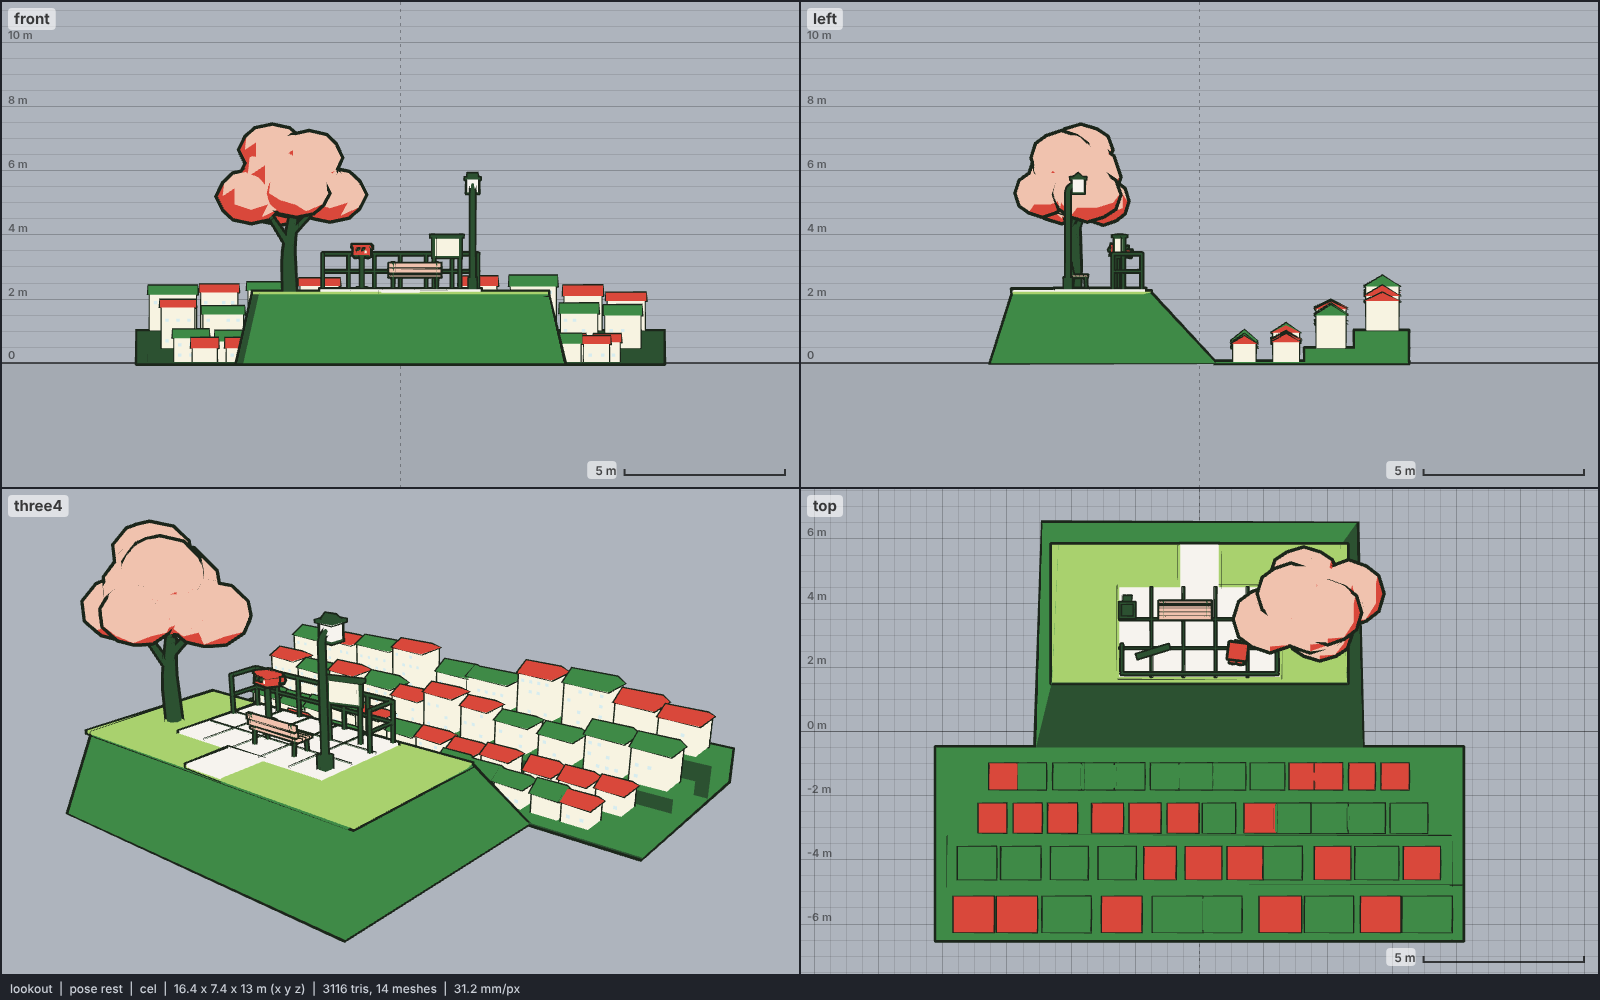
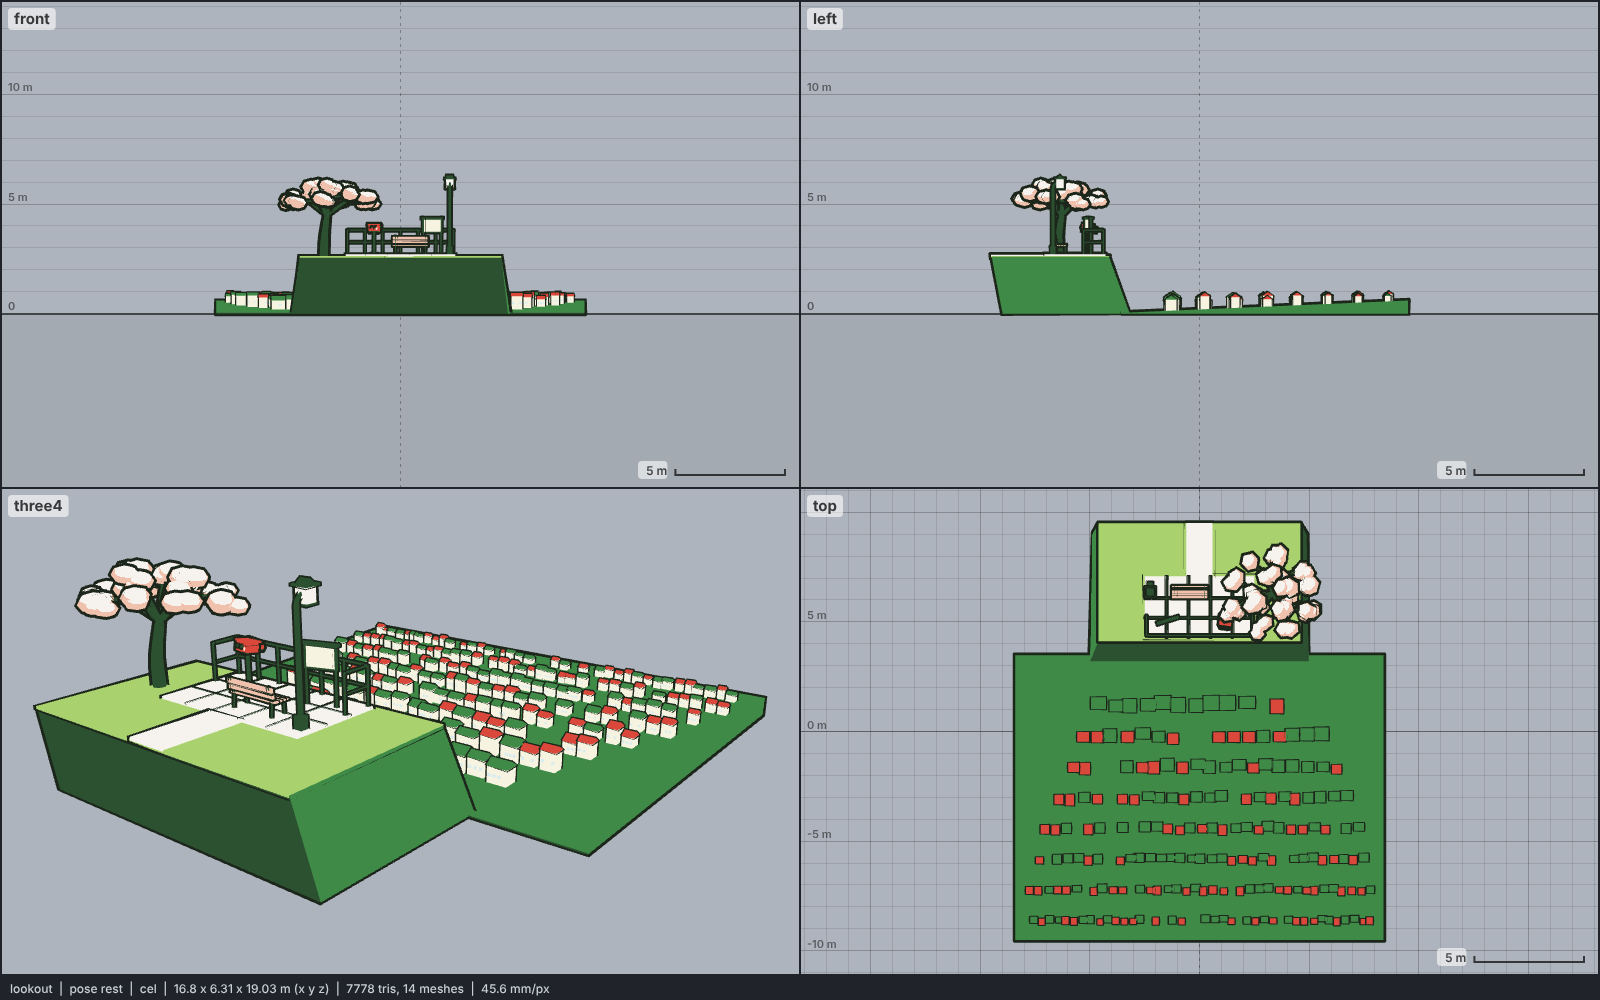
models: lookout, drop the town below a cliff, cluster the cherry
The town is now a forced-perspective spread of eight shrinking rows on the
valley floor past a 70 deg cliff, every roof >= 1.5 m under the deck. The
hilltop is lower and ends at a shaded cut just behind the path. The cherry
is built from limbs and small blossom clusters. 7.8k triangles, 14 meshes.

Claude-Session: https://claude.ai/code/session_01RarBCdt4E1fNHHaUKaW5GL

diff --git a/models/lookout.js b/models/lookout.js
@@ -1,39 +1,43 @@
 // lookout.js - a hilltop observation point over a town, the anime ending-scene viewpoint, static.
 // Contract: harness/lab/README.md. Meters, +Y up, the visitor's side faces +Z (the bench back and the path), the
-// view and the drop lie toward -Z, its left is +X (the lamp), stands on y = 0 (the town floor), centred on x = 0, z = 0.
+// view and the drop lie toward -Z, its left is +X (the lamp), stands on y = 0 (the valley floor), centred on x = 0, z = 0.
 //
-// Construction (boxes, prisms, swept tubes and faceted blobs, all triangle soups merged per material; flat-shaded
-// except tubes, which carry radial normals so a 6-sided tube reads round):
-//   HILL     one closed frustum, its top the hilltop at P = 2.2 m, its flanks the grass slope down to the town floor;
-//            a grass verge slab on top and a paved platform slab on that (8 cm, so its edge reads as a kerb).
-//   RAILING  tube posts every ~0.9 m along the drop edge, a top rail and a mid rail, short returns at both ends.
+// Construction (boxes, prisms, swept tubes and low-poly blobs, all triangle soups merged per material; flat-shaded
+// except tubes and blobs, which carry radial normals):
+//   HILL     one closed hexahedron, its top the hilltop at P = 2.6 m: a steep cliff (70 deg) down to the valley floor
+//            toward the view, so there is a visible drop between the railing and the town; the visitor's side is a cut
+//            leaning in 0.5 m (a diorama base, in shade). A grass verge slab on top, a paved platform on that (11 cm,
+//            so its edge reads as a kerb) and a path to the back edge.
+//   RAILING  tube posts every ~0.8 m along the drop edge, a top rail and a mid rail, short returns at both ends.
 //   FIXTURES a coin binocular viewer (tube post, a squat body box with a hood, two eyepieces toward the visitor and
 //            two fat objective barrels toward the view) tilted down 8 deg; a park bench facing the view (four seat
 //            slats, two back slats on cast side frames); a lamp post (tube with a crook, lantern box, cap); a small
 //            blank information board on two posts, its panel turned toward the visitor.
-//   TREE     a cherry: tapered tube trunk with three limbs, a canopy of seven faceted blobs (icosahedron detail 1).
-//   TOWN     a flat backdrop strip on the town floor beyond the slope's foot: three staggered rows of wall boxes with
-//            gable prisms, a few taller blocks, small window quads on the faces toward the hill. Sizes come from a
-//            fixed integer hash, never Math.random.
+//   TREE     a cherry after riverbank-path: a bent bole forking at 1.9 m, six limbs that split in two, four crown limbs,
+//            all dark tubes; a cluster of 1-3 small flattened blobs at every tip and elbow, so limbs show in the gaps.
+//   TOWN     a forced-perspective spread on the valley floor past the cliff foot: eight rows of wall boxes with gable
+//            prisms, each row further out smaller (scale 0.50 -> 0.25) and wider, on a floor that rises gently (0 ->
+//            0.6 m) like the far side of a valley; every roof stays >= 1.5 m under the deck. Window quads face the hill.
+//            Sizes come from a fixed integer hash, never Math.random.
 //   Every closed part is wound away from a point inside it, never by hand.
-// Proportions (real size, base unit the railing height R = 1.1 m): hilltop 2.0 R over the town floor; platform 5.0 x 2.8
-// (4.5 R x 2.5 R); bench 1.6 wide, seat 0.42, back 0.8; viewer eyepieces at 1.2; lamp 3.6 tall; board 0.9 x 0.6 at
-// 1.0-1.6; cherry crown top 5.2 m over the hilltop (the model's top). Town rows 0.5-1.4 m tall: a forced-perspective
-// strip, not real-size houses.
+// Proportions (real size, base unit the railing height R = 1.1 m): deck 2.5 R over the cliff foot; platform 5.0 x 2.8
+// (4.5 R x 2.5 R); bench 1.6 wide, seat 0.42, back 0.8; viewer eyepieces at 1.2; lamp 3.6 tall (its cap is the
+// model's top); board 0.9 x 0.6 at 1.0-1.6; cherry crown ~3.6 m over the verge. Town houses 0.2-0.7 m tall.
 // Options: build(THREE, kit, colors, { height, dusk }).
-//   height  scales everything uniformly so the crown top is `height` (default 7.4 m).
+//   height  scales everything uniformly so the lamp cap is `height` (default 6.31 m).
 //   dusk    the lamp lantern and the town windows glow practical (threshold -0.25, a thin shade rim only); the town
 //           walls drop to hair so the lights pop.
-// Colours (meadow): grass verge line #a9d16e / iris #3f8a47; hill slope and town floor iris / hair #2c5131;
-// paving sclera #f6f3ee / sky #d7ecef; painted metal (railing, posts, frames) hair / hair; viewer accent #d9483b /
-// hair; bench slats skin #f0c2ae / accent; board panel moon #f7f3e1 / sclera; lantern sclera / sky (dusk practical
-// #f2c94c / practical); trunk hair / hair; blossom skin / accent; town walls moon / sky (dusk hair / hair), roofs
-// iris / hair and accent / hair, windows sky (dusk practical). Pale parts use threshold 0.1 so faces square to the
-// camera stay lit (front dot 0.30).
+// Colours (meadow): grass verge line #a9d16e / iris #3f8a47; hill and valley floor iris / hair #2c5131 (threshold
+// 0.45, so the visitor-side cut and the cliff fall to hair); paving sclera #f6f3ee / sky #d7ecef; painted metal
+// (railing, posts, frames) hair / hair; viewer accent #d9483b / hair; bench slats skin #f0c2ae / accent; board panel
+// moon #f7f3e1 / sclera; lantern sclera / sky (dusk practical #f2c94c / practical); trunk and limbs hair flat; blossom
+// sclera / skin at threshold 0.55 (white tops, sakura-pink sides, as riverbank-path); town walls moon / sky (dusk
+// hair / hair), roofs iris / hair and accent / hair, windows sky (dusk practical). Pale parts use threshold 0.1 so
+// faces square to the camera stay lit (front dot 0.30).
 
 export const meta = {
   name: "lookout",
-  height: 7.4,
+  height: 6.31,
   script: "meadow",
   colors: {
     grass: "#a9d16e", grassShade: "#3f8a47",
@@ -46,7 +50,7 @@ export const meta = {
     lamp: "#f6f3ee", lampShade: "#d7ecef",
     glow: "#f2c94c",
     trunk: "#2c5131",
-    blossom: "#f0c2ae", blossomShade: "#d9483b",
+    blossom: "#f6f3ee", blossomShade: "#f0c2ae",
     wall: "#f7f3e1", wallShade: "#d7ecef",
     roofA: "#3f8a47", roofB: "#d9483b", roofShade: "#2c5131",
     window: "#d7ecef",
@@ -155,12 +159,19 @@ export function build(THREE, kit, colors = meta.colors, opts = {}) {
       for (let j = 1; j < sides - 1; j++) tri(key, R.ring[0].q, R.ring[j].q, R.ring[j + 1].q, ref, cn, cn, cn);
     }
   }
-  // faceted blob: icosahedron detail 1, scaled per axis
-  const ico = new THREE.IcosahedronGeometry(1, 1).getAttribute("position");
-  function blob(key, C, sx, sy, sz) {
-    for (let i = 0; i < ico.count; i += 3) {
-      const q = [0, 1, 2].map((k) => [C[0] + ico.getX(i + k) * sx, C[1] + ico.getY(i + k) * sy, C[2] + ico.getZ(i + k) * sz]);
-      tri(key, q[0], q[1], q[2], C);
+  // blossom blob: a low sphere (6 x 4), flattened, scaled per axis and turned about y; smooth radial normals
+  const sph = new THREE.SphereGeometry(1, 6, 4);
+  const sP = sph.getAttribute("position"), sI = sph.getIndex();
+  function blob(key, C, sx, sy, sz, yaw = 0) {
+    const cy = Math.cos(yaw), sn = Math.sin(yaw);
+    const at = (i) => {
+      const x = sP.getX(i) * sx, z = sP.getZ(i) * sz;
+      return [C[0] + x * cy + z * sn, C[1] + sP.getY(i) * sy, C[2] - x * sn + z * cy];
+    };
+    const nAt = (q) => nrm([(q[0] - C[0]) / (sx * sx), (q[1] - C[1]) / (sy * sy), (q[2] - C[2]) / (sz * sz)]);
+    for (let i = 0; i < sI.count; i += 3) {
+      const q = [0, 1, 2].map((k) => at(sI.getX(i + k)));
+      tri(key, q[0], q[1], q[2], C, nAt(q[0]), nAt(q[1]), nAt(q[2]));
     }
   }
   const place = (x, y, z, yaw, fn, pitch = 0) => {
@@ -172,9 +183,11 @@ export function build(THREE, kit, colors = meta.colors, opts = {}) {
   const hash = (i) => { let h = (i * 2654435761) >>> 0; h ^= h >>> 15; h = Math.imul(h, 2246822519) >>> 0; h ^= h >>> 13; return (h >>> 0) / 4294967296; };
 
   // ---------- hill, verge, platform ----------
-  const P = 2.2, EDGE = -1.0; // hilltop height, z of the drop edge
-  const BZ = 2.9; // back edge of the hilltop
-  hex("hill", [[-5.1, 0, -3.4], [5.1, 0, -3.4], [4.9, 0, BZ + 0.7], [-4.9, 0, BZ + 0.7], [-4.6, P, EDGE - 0.35], [4.6, P, EDGE - 0.35], [4.4, P, BZ], [-4.4, P, BZ]]);
+  const P = 2.6, EDGE = -1.0; // hilltop height, z of the drop edge
+  const BZ = 4.0, CZ = -2.3, BACK = BZ - 0.5; // the visitor-side cut leans in a little (undercut) // back edge of the top, cliff foot, back foot
+  // a steep cliff toward the view; the visitor's side is a cut leaning in 0.5 m (a diorama base), so the model ends
+  // just behind the path
+  hex("hill", [[-5.0, 0, CZ], [5.0, 0, CZ], [4.9, 0, BACK], [-4.9, 0, BACK], [-4.6, P, EDGE - 0.35], [4.6, P, EDGE - 0.35], [4.6, P, BZ], [-4.6, P, BZ]]);
   box("grass", -4.6, 4.6, P - 0.05, P + 0.03, EDGE - 0.37, BZ + 0.02);
   const PX = 2.5, PZ0 = EDGE - 0.2, PZ1 = 1.6, PT = P + 0.11;
   box("paving", -PX, PX, P, PT, PZ0, PZ1);
@@ -246,43 +259,64 @@ export function build(THREE, kit, colors = meta.colors, opts = {}) {
   });
 
   // ---------- cherry tree on the -X verge ----------
-  place(-3.45, P, 1.0, Math.PI, () => {
-    tube("trunk", [[0, -0.05, 0], [0.05, 1.3, 0], [-0.1, 2.3, 0.05]], [0.2, 0.11], [0, 0, 1], { bend: 0.4, sides: 7 });
-    tube("trunk", [[0.03, 1.5, 0], [0.75, 2.6, -0.3]], [0.09, 0.04], [0, 0, 1], { sides: 6 });
-    tube("trunk", [[0, 1.8, 0], [-0.85, 2.7, 0.35]], [0.08, 0.035], [0, 0, 1], { sides: 6 });
-    tube("trunk", [[-0.1, 2.25, 0.05], [0.2, 3.3, -0.1]], [0.08, 0.03], [0, 0, 1], { sides: 6 });
-    for (const [x, y, z, sx, sy, sz] of [
-      [0, 3.6, 0, 1.55, 1.2, 1.4], [1.2, 3.0, -0.4, 1.05, 0.8, 1.0], [-1.25, 3.05, 0.4, 1.1, 0.8, 1.0],
-      [0.55, 4.45, 0.2, 1.0, 0.75, 0.95], [-0.6, 4.2, -0.4, 1.0, 0.8, 0.9], [0.3, 2.85, 0.9, 0.95, 0.7, 0.75],
-      [-0.2, 3.1, -1.0, 1.0, 0.7, 0.8],
-    ]) blob("blossom", [x, y, z], sx, sy, sz);
+  // a bent bole forking at 1.9 m, six limbs that each split in two; a cluster of 2-3 small flattened blobs at every
+  // split tip and one at each limb's elbow, plus a low crown, so dark limbs show through gaps in the canopy.
+  place(-3.5, P, 0.9, 0, () => {
+    let seed = 11;
+    const rr = (a, b) => a + (b - a) * hash(seed++);
+    const fork = [0.15, 1.9, -0.1];
+    tube("trunk", [[0, -0.05, 0], [0.02, 0.9, 0.04], fork], [0.2, 0.13], [0, 0, 1], { bend: 0.35, sides: 7 });
+    const cluster = (C, n, r0, r1) => {
+      for (let k = 0; k < n; k++) {
+        const r = rr(r0, r1);
+        const q = k === 0 ? C : [C[0] + rr(-0.35, 0.35), C[1] + rr(-0.1, 0.15), C[2] + rr(-0.3, 0.3)];
+        blob("blossom", q, r * rr(1.1, 1.3), r * 0.72, r, rr(0, 6.28));
+      }
+    };
+    for (let i = 0; i < 6; i++) {
+      const az = (i + rr(0.2, 0.8)) * ((Math.PI * 2) / 6), reach = rr(1.7, 2.1);
+      const dir = (a, d) => [Math.sin(a) * d, 0, Math.cos(a) * d];
+      const mid = add(add(fork, dir(az, reach * 0.45)), [0, rr(0.55, 0.8), 0]);
+      tube("trunk", [fork, mid], [0.09, 0.06], [0, 1, 0], { sides: 5 });
+      cluster(add(mid, [0, 0.3, 0]), 1, 0.32, 0.4);
+      for (const da of [-0.4, 0.4]) {
+        const tip = add(add(fork, dir(az + da, reach * rr(0.85, 1.05))), [0, mid[1] - fork[1] + rr(-0.15, 0.25), 0]);
+        tube("trunk", [mid, tip], [0.05, 0.025], [0, 1, 0], { sides: 5 });
+        cluster(tip, 2 + (hash(i * 7 + (da > 0 ? 1 : 0)) > 0.5 ? 1 : 0), 0.26, 0.38);
+      }
+    }
+    for (let k = 0; k < 4; k++) {
+      const a = (k * Math.PI) / 2 + 0.4, C = [fork[0] + Math.sin(a) * 0.8, fork[1] + rr(1.15, 1.4), fork[2] + Math.cos(a) * 0.8];
+      tube("trunk", [fork, add(fork, mul(sub(C, fork), 0.8))], [0.07, 0.035], [0, 1, 0], { sides: 5 });
+      cluster(C, 2, 0.32, 0.42);
+    }
   });
 
-  // ---------- town strip on the floor beyond the slope ----------
-  // rows: [z, depth, terrace y, min height, height spread, count, span]; back rows climb the far side of the valley
-  const ROWS = [[-4.3, 0.7, 0, 0.45, 0.3, 13, 13.4], [-5.6, 0.8, 0, 0.6, 0.45, 12, 14.2], [-7.0, 0.9, 0.45, 0.7, 0.6, 11, 15], [-8.6, 1.0, 1.0, 0.8, 0.9, 10, 15.8]];
-  const ZB = -9.4;
-  box("hill", -8.2, 8.2, 0, 0.04, ZB, -3.4);
-  for (const [z, d, y0, , , , span] of ROWS) if (y0 > 0) box("hill", -span / 2 - 0.3, span / 2 + 0.3, 0, y0, ZB + 0.01, z + d / 2 + 0.35);
+  // ---------- town spread on the valley floor, past the cliff foot ----------
+  // forced perspective: each row further out is smaller (scale sc) and wider, and steps up a little as the far side of
+  // the valley rises; every roof stays >= 1.5 m under the deck. Rows: [z, scale, terrace y, span].
+  const ROWS = [[-4.3, 0.5, 11], [-5.7, 0.46, 12], [-7.1, 0.42, 13], [-8.5, 0.38, 14], [-9.9, 0.34, 15], [-11.3, 0.31, 15.5], [-12.7, 0.28, 16], [-14.1, 0.25, 16]];
+  const ZB = -15.0, ZF = CZ + 0.3, YB = 0.6; // the valley floor rises gently from the cliff foot to YB at the far edge
+  const yAt = (z) => 0.04 + ((YB - 0.04) * (ZF - z)) / (ZF - ZB);
+  hex("hill", [[-8.4, 0, ZF], [8.4, 0, ZF], [8.4, 0, ZB], [-8.4, 0, ZB], [-8.4, 0.04, ZF], [8.4, 0.04, ZF], [8.4, YB, ZB], [-8.4, YB, ZB]]);
   let k = 0;
-  for (const [z, d, y0, hMin, hVar, n, span] of ROWS) {
-    const step = span / n;
+  for (const [z, sc, span] of ROWS) {
+    const step = 1.5 * sc, n = Math.floor(span / step);
     for (let i = 0; i < n; i++, k++) {
       const r1 = hash(k * 3 + 1), r2 = hash(k * 3 + 2), r3 = hash(k * 3 + 3);
-      const w = step * (0.62 + 0.3 * r1), x = -span / 2 + step * (i + 0.5) + (r2 - 0.5) * step * 0.25;
-      const tall = y0 >= 1 && r3 > 0.68;
-      const h = tall ? hMin + hVar + 0.6 : hMin + hVar * r3, z0 = z - d / 2, z1 = z + d / 2, top = y0 + h;
+      if (r3 < 0.08) continue; // a gap now and then: a lane, a lot
+      const w = step * (0.6 + 0.3 * r1), d = sc * (0.8 + 0.4 * r2);
+      const x = -span / 2 + step * (i + 0.5) + (r2 - 0.5) * step * 0.3, zz = z + (r1 - 0.5) * sc * 0.6;
+      const h = sc * (0.75 + 0.6 * r3), z0 = zz - d / 2, z1 = zz + d / 2, y0 = yAt(z1) - 0.02, top = yAt(z0) + h;
       box("wall", x - w / 2, x + w / 2, y0 + 0.02, top, z0, z1);
-      if (!tall) gable(r1 > 0.45 ? "roofA" : "roofB", x - w / 2 - 0.05, x + w / 2 + 0.05, top, top + 0.22 + 0.12 * r2, z0 - 0.06, z1 + 0.06);
-      else box("roofA", x - w / 2 - 0.03, x + w / 2 + 0.03, top, top + 0.05, z0 - 0.03, z1 + 0.03);
+      gable(r1 > 0.42 ? "roofA" : "roofB", x - w / 2 - 0.04 * sc, x + w / 2 + 0.04 * sc, top, top + sc * (0.3 + 0.15 * r2), z0 - 0.06 * sc, z1 + 0.06 * sc);
       // windows on the face toward the hill (+Z)
-      const floors = Math.max(1, Math.floor((h - 0.1) / 0.32)), cols = Math.max(1, Math.round(w / 0.32));
-      for (let f = 0; f < floors; f++)
-        for (let j = 0; j < cols; j++) {
-          if (hash(k * 97 + f * 13 + j * 7) < 0.45) continue;
-          const wx = x - w / 2 + (w * (j + 0.5)) / cols, wy = y0 + 0.2 + f * 0.32;
-          quad("window", [wx - 0.055, wy, z1 + 0.006], [wx + 0.055, wy, z1 + 0.006], [wx + 0.055, wy + 0.1, z1 + 0.006], [wx - 0.055, wy + 0.1, z1 + 0.006], [wx, wy + 0.05, z1 - 1]);
-        }
+      const ww = 0.11 * sc, wh = 0.1 * sc, cols = Math.max(1, Math.round(w / (0.32 * sc)));
+      for (let j = 0; j < cols; j++) {
+        if (hash(k * 97 + j * 7) < 0.4) continue;
+        const wx = x - w / 2 + (w * (j + 0.5)) / cols, wy = y0 + h * 0.45;
+        quad("window", [wx - ww, wy, z1 + 0.006], [wx + ww, wy, z1 + 0.006], [wx + ww, wy + 2 * wh, z1 + 0.006], [wx - ww, wy + 2 * wh, z1 + 0.006], [wx, wy, z1 - 1]);
+      }
     }
   }
 
@@ -296,7 +330,7 @@ export function build(THREE, kit, colors = meta.colors, opts = {}) {
   // ---------- meshes: one per material ----------
   const G = -0.25; // glowing practicals keep only a thin shade rim
   const MAT = {
-    hill: [c.hill, c.hillShade, 0.35, 3],
+    hill: [c.hill, c.hillShade, 0.45, 3],
     grass: [c.grass, c.grassShade, 0.1, 3],
     paving: [c.paving, c.pavingShade, 0.1, 3],
     metal: [c.metal, c.metalShade, 0.1, 2],
@@ -305,7 +339,7 @@ export function build(THREE, kit, colors = meta.colors, opts = {}) {
     panel: [c.panel, c.panelShade, 0.1, 0],
     lamp: dusk ? [c.glow, c.glow, G, 3] : [c.lamp, c.lampShade, 0.1, 3],
     trunk: [c.trunk, c.trunk, 0.1, 3],
-    blossom: [c.blossom, c.blossomShade, -0.1, 3.5],
+    blossom: [c.blossom, c.blossomShade, 0.55, 3],
     wall: dusk ? [c.hillShade, c.hillShade, 0.1, 1.5] : [c.wall, c.wallShade, 0.1, 1.5],
     roofA: [c.roofA, c.roofShade, 0.1, 1.5],
     roofB: [c.roofB, c.roofShade, 0.1, 1.5],
